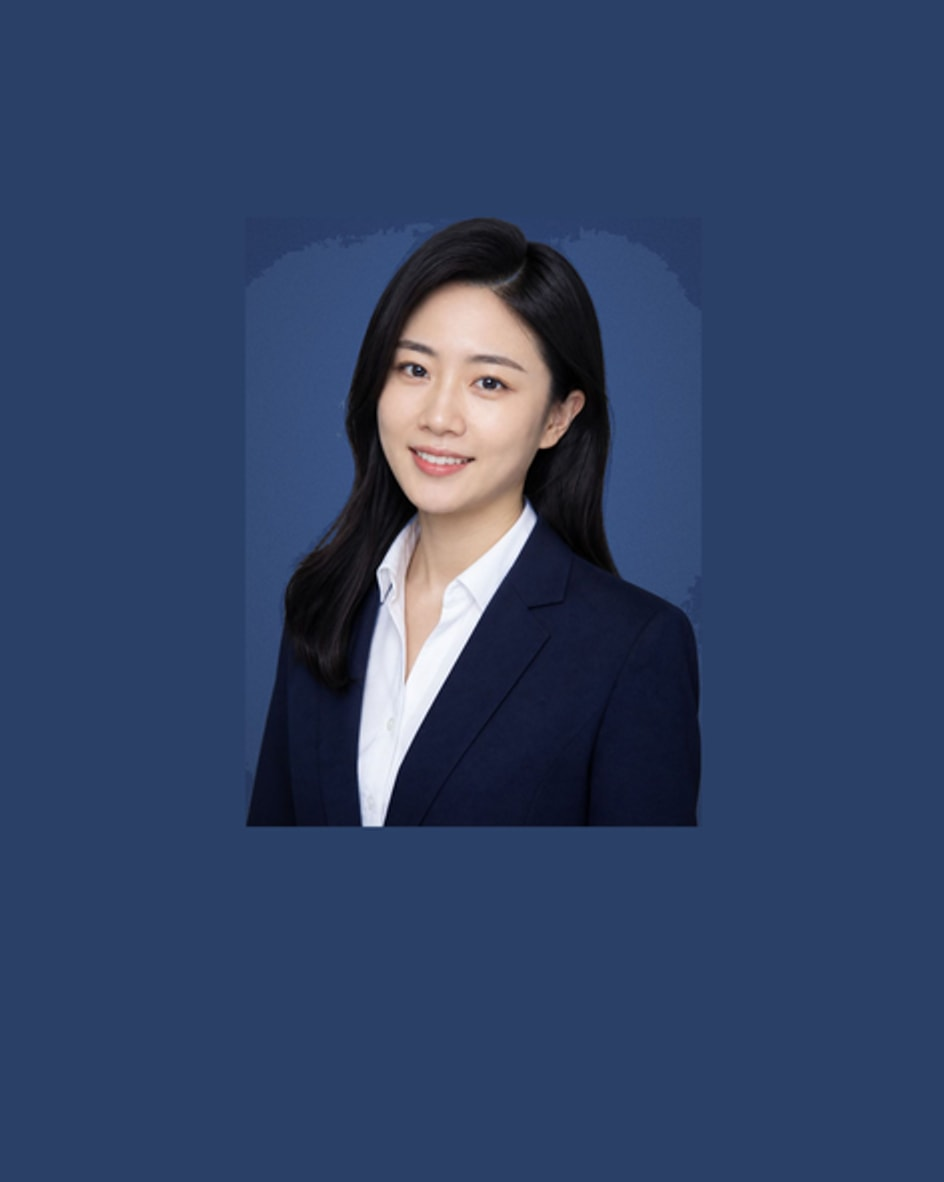
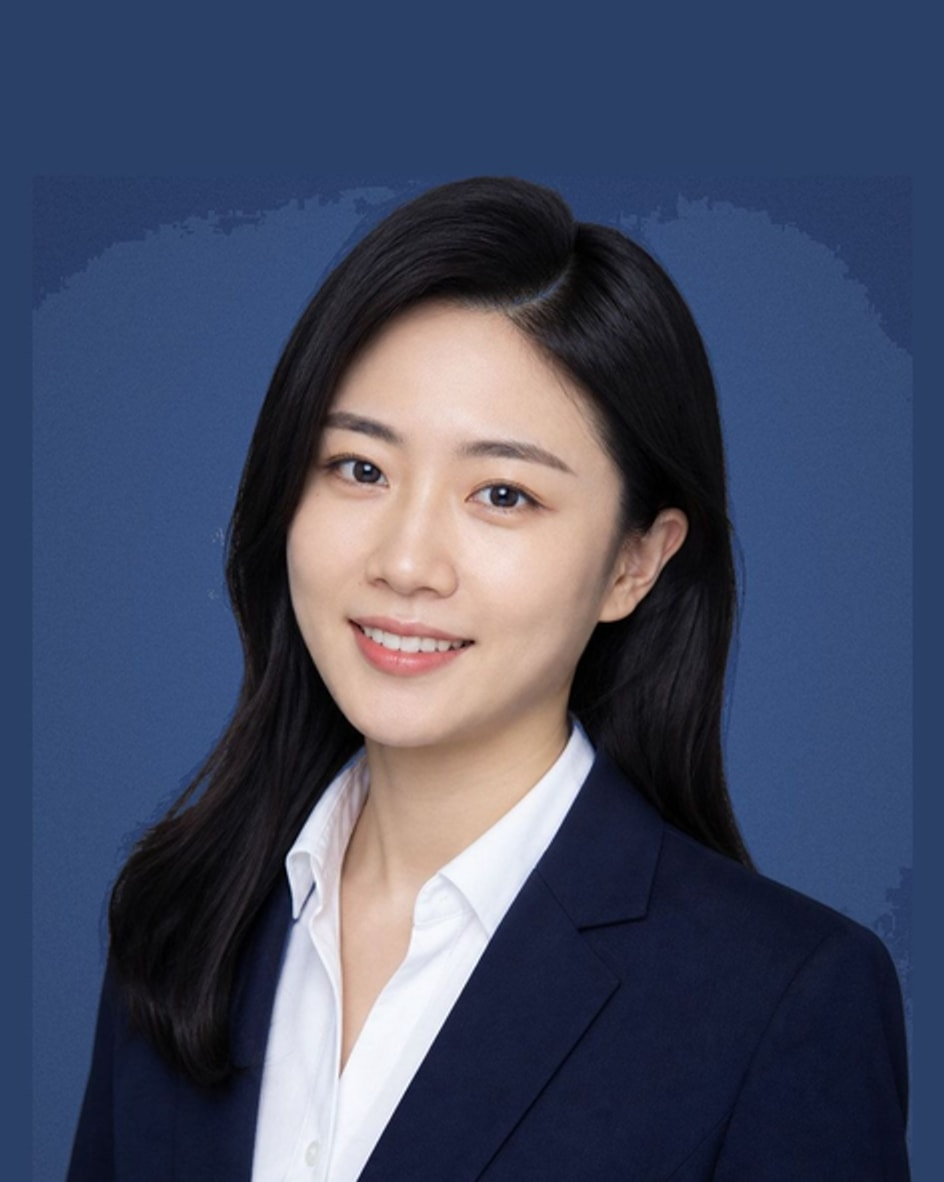
fix(kuanlan): fill the 质感蓝 tile instead of stamping it on navy
领证照 compose was still using the ID-card contain box, so the studio
sample sat in a dark frame. Cover the print and bust the cached still.

diff --git a/apps/kuanlan/src/lib/id-photo.ts b/apps/kuanlan/src/lib/id-photo.ts
@@ -33,17 +33,27 @@ export type IdPhotoResult = {
   skuId: string;
 };
 
-function subjectBox(width: number, height: number, headRatio: number) {
-  const subjectHeight = Math.round(height * headRatio);
+function subjectBox(sku: IdPhotoSku, width: number, height: number) {
+  if (sku.look === "linkedin") {
+    return {
+      subjectWidth: width,
+      subjectHeight: height,
+      left: 0,
+      top: 0,
+      fit: "cover" as const,
+    };
+  }
+
+  const subjectHeight = Math.round(height * sku.headRatio);
   const subjectWidth = Math.min(width, Math.round(subjectHeight * 0.78));
   const left = Math.round((width - subjectWidth) / 2);
   const top = Math.round((height - subjectHeight) * 0.28);
-  return { subjectWidth, subjectHeight, left, top };
+  return { subjectWidth, subjectHeight, left, top, fit: "contain" as const };
 }
 
 async function fitSubject(
   source: Buffer,
-  box: { subjectWidth: number; subjectHeight: number },
+  box: { subjectWidth: number; subjectHeight: number; fit: "cover" | "contain" },
   background: { r: number; g: number; b: number },
 ): Promise<Buffer> {
   const rotated = sharp(source).rotate();
@@ -77,8 +87,9 @@ async function fitSubject(
   return sharp(prepared)
     .flatten({ background })
     .resize(box.subjectWidth, box.subjectHeight, {
-      fit: "contain",
+      fit: box.fit,
       background,
+      position: box.fit === "cover" ? "top" : "centre",
     })
     .png()
     .toBuffer();
@@ -97,7 +108,7 @@ export async function composeIdPhoto(input: {
 
   const { width, height } = skuPixelSize(input.sku);
   const background = ID_PHOTO_BACKGROUNDS[input.sku.background];
-  const box = subjectBox(width, height, input.sku.headRatio);
+  const box = subjectBox(input.sku, width, height);
 
   try {
     const subject = await fitSubject(input.source, box, background);

diff --git a/apps/kuanlan/src/lib/id-photo.test.ts b/apps/kuanlan/src/lib/id-photo.test.ts
@@ -48,16 +48,23 @@ describe("composeIdPhoto", () => {
     expect(data[last]).toBe(67);
     expect(data[last + 1]).toBe(142);
     expect(data[last + 2]).toBe(219);
+  });
 
-    const studio = getEnabledSku("linkedin-studio");
-    const studioPrint = await composeIdPhoto({
+  it("prints 领证照 across the frame, not a stamp on the studio canvas", async () => {
+    const sku = getEnabledSku("linkedin-studio");
+    const result = await composeIdPhoto({
       source: await samplePortrait(),
-      sku: studio,
+      sku,
     });
-    const studioRaw = await sharp(studioPrint.png).raw().toBuffer({ resolveWithObject: true });
-    expect(studioRaw.data[0]).toBe(42);
-    expect(studioRaw.data[1]).toBe(64);
-    expect(studioRaw.data[2]).toBe(102);
+    const { data, info } = await sharp(result.png).raw().toBuffer({ resolveWithObject: true });
+    const inset =
+      (Math.floor(info.height / 2) * info.width + Math.floor(info.width * 0.08)) * info.channels;
+
+    expect(info.width).toBe(472);
+    expect(info.height).toBe(591);
+    expect(data[inset]).toBeGreaterThan(180);
+    expect(data[inset + 1]).toBeLessThan(80);
+    expect(data[inset + 2]).toBeLessThan(80);
   });
 
   it("places the portrait inside the frame", async () => {

diff --git a/apps/kuanlan/src/lib/sku-samples.test.ts b/apps/kuanlan/src/lib/sku-samples.test.ts
@@ -30,6 +30,23 @@ describe("sku sample compose", () => {
     expect(data[top + 2]).toBeGreaterThan(240);
   });
 
+  it("keeps 质感蓝 as a full 领证照, not a small print on navy", async () => {
+    const sku = getEnabledSku("linkedin-studio");
+    const source = readFileSync(
+      join(dirname(fileURLToPath(import.meta.url)), "../catalog/samples", skuSampleSourceFile(sku)),
+    );
+    const jpeg = await composeSkuSampleJpeg(sku, source);
+    const { data, info } = await sharp(jpeg).raw().toBuffer({ resolveWithObject: true });
+    let painted = 0;
+    for (let i = 0; i < data.length; i += info.channels) {
+      if (data[i] === 42 && data[i + 1] === 64 && data[i + 2] === 102) painted += 1;
+    }
+
+    expect(info.width).toBe(944);
+    expect(info.height).toBe(1182);
+    expect(painted / (info.width * info.height)).toBeLessThan(0.01);
+  });
+
   it("maps white id specs onto the white source portrait", () => {
     expect(skuSampleSourceFile(getEnabledSku("visa-us"))).toBe("portrait-visa-us.jpg");
     expect(skuSampleSourceFile(getEnabledSku("passport-cn"))).toBe("portrait-id-white.jpg");

diff --git a/apps/kuanlan/src/catalog/skus.test.ts b/apps/kuanlan/src/catalog/skus.test.ts
@@ -145,8 +145,9 @@ describe("catalog", () => {
   it("ships a sample still for every live spec", () => {
     const dir = join(dirname(fileURLToPath(import.meta.url)), "../../public/skus");
     for (const sku of listIdPhotoSkus()) {
+      const bust = sku.id === "linkedin-studio" ? "?v=2" : "";
       expect(toPublicIdPhoto(sku).sample).toBe(
-        `https://cdn.nebutra.com/kuanlan/skus/${sku.id}.jpg`,
+        `https://cdn.nebutra.com/kuanlan/skus/${sku.id}.jpg${bust}`,
       );
       expect(existsSync(join(dir, `${sku.id}.jpg`))).toBe(true);
     }

diff --git a/apps/kuanlan/src/lib/resources.test.ts b/apps/kuanlan/src/lib/resources.test.ts
@@ -28,6 +28,9 @@ describe("resource keys", () => {
   it("places 领证照 samples under the public skus prefix", () => {
     expect(skuSampleKey("cn-2in-white")).toBe("kuanlan/skus/cn-2in-white.jpg");
     expect(skuSampleSrc("visa-us")).toBe("https://cdn.nebutra.com/kuanlan/skus/visa-us.jpg");
+    expect(skuSampleSrc("linkedin-studio")).toBe(
+      "https://cdn.nebutra.com/kuanlan/skus/linkedin-studio.jpg?v=2",
+    );
     expect(() => skuSampleSrc("../secret")).toThrow(InvalidResourceKeyError);
   });
 

diff --git a/apps/kuanlan/src/lib/resources.ts b/apps/kuanlan/src/lib/resources.ts
@@ -36,7 +36,8 @@ export function skuSampleKey(id: string): string {
 }
 
 export function skuSampleSrc(id: string, base?: string): string {
-  return publicAssetUrl(skuSampleKey(id), base);
+  const url = publicAssetUrl(skuSampleKey(id), base);
+  return id === "linkedin-studio" ? `${url}?v=2` : url;
 }
 
 const WARDROBE_ID = SKU_ID;
